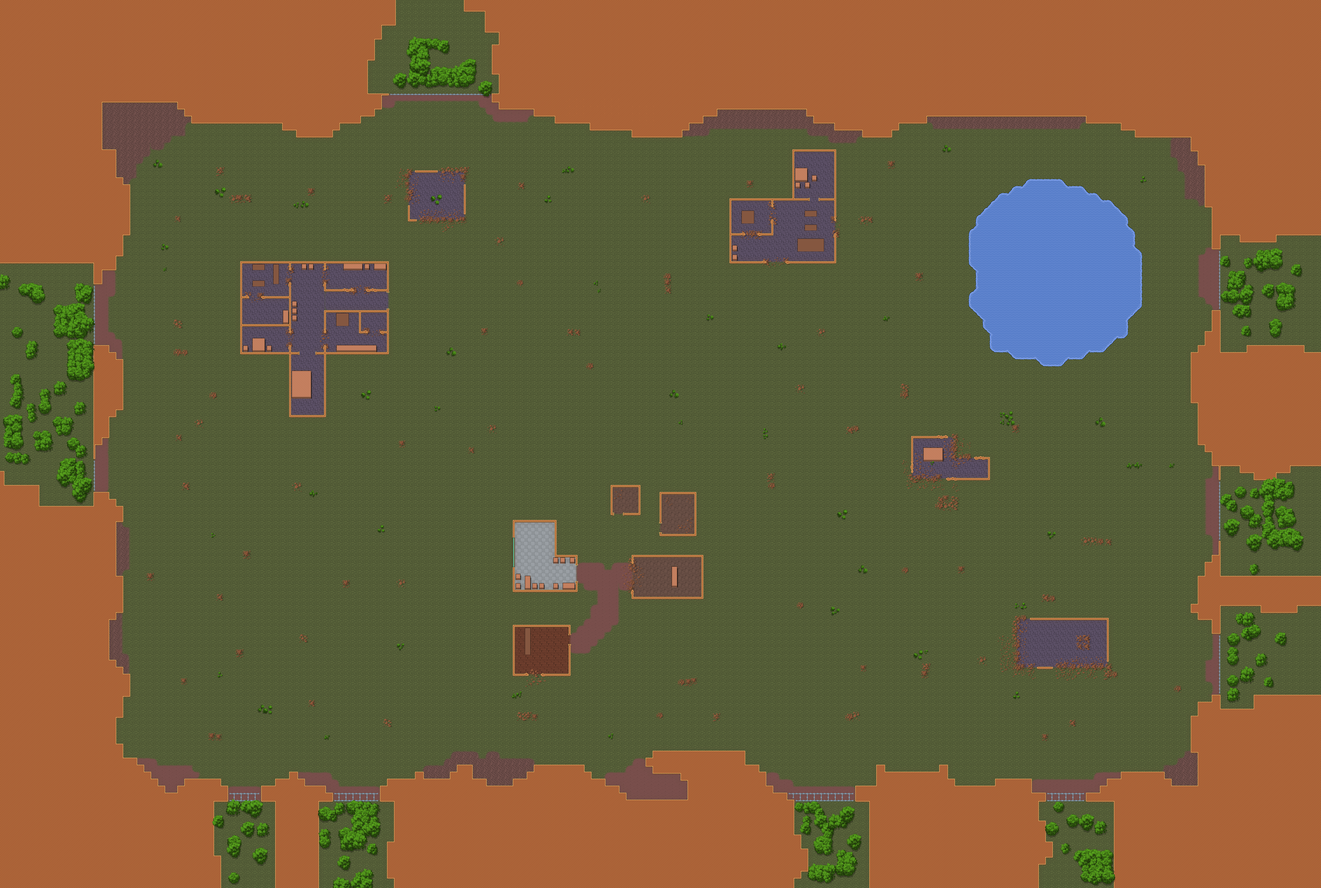
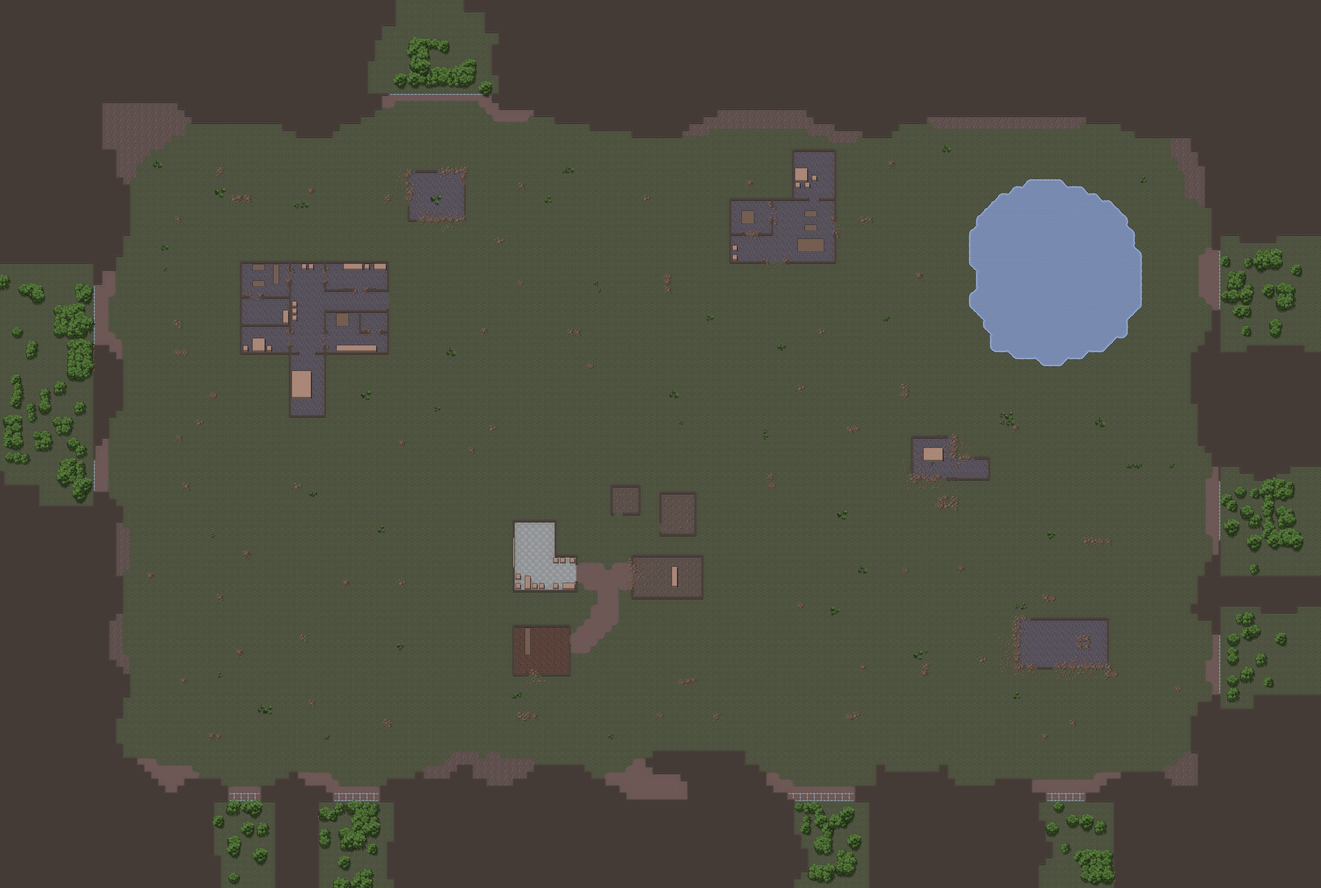
Map and Filter Fix

diff --git a/PlatformGame-L18_Optimization_and_Performance/src/GuiManager.cpp b/PlatformGame-L18_Optimization_and_Performance/src/GuiManager.cpp
@@ -88,11 +88,11 @@ bool GuiManager::Update(float dt)
 		&& Engine::GetInstance().introScene->active == false && Engine::GetInstance().settingsMenu.get()->active == false)
 	{
 		Engine::GetInstance().render->DrawTexture(Trees, 0, 0);
-		Engine::GetInstance().render->DrawUIimage(Filter,-591/2, -710,1,FilterAngle);
+		Engine::GetInstance().render->DrawUIimage(Filter,-290, -700,1,FilterAngle);
 
 		if (NoEye == true)
 		{
-			Engine::GetInstance().render->DrawUIimage(NoEyeFilter, -591/2, -710, 1, FilterAngle);
+			Engine::GetInstance().render->DrawUIimage(NoEyeFilter, -290, -700, 1, FilterAngle);
 		}
 	}
 
